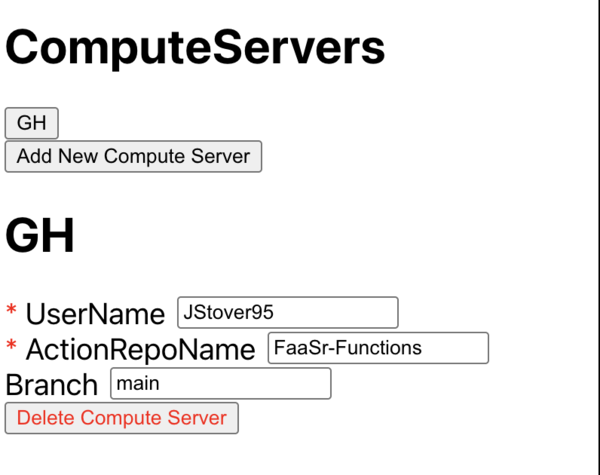
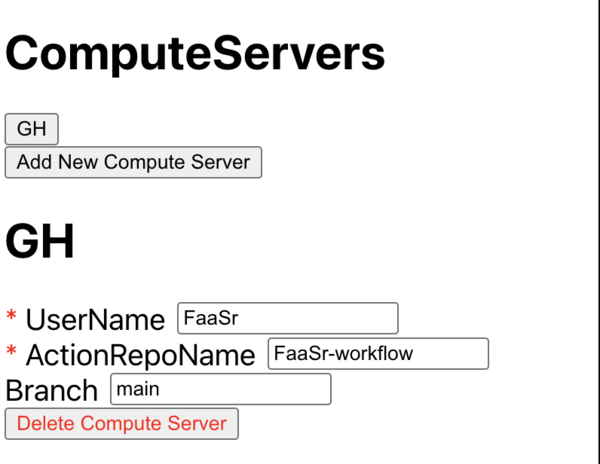
Update compute server config

diff --git a/weather_visualization/README.md b/weather_visualization/README.md
@@ -719,9 +719,11 @@ The final workflow file that we will create can be found in [weather_visualizati
 
 ### 1. Set Up our Compute Server
 
-After opening the Workflow Builder, we will first add a compute server. This can be one of GitHub Actions, AWS Lambda, or more (see the documentation for more details ...). For this tutorial, we will use GitHub Actions.
+After opening the Workflow Builder, we will first add a compute server. Click **Edit Compute Servers**, then following the tutorial (...), enter your GitHub username for **UserName**, `Faasr-workflow` for **ActionRepoName**, and `main` for **Branch**.
 
-Click **Edit Compute Servers** and enter the information for the GitHub repository that you want to run the actions on. For example:
+> ℹ This workflow uses GitHub Actions, but it possible to bring your own compute server, like AWS Lambda. See the documentation for more details (...).
+
+Your configuration should appear as below:
 
 ![Compute server screenshot](../assets/weather-visualization-workflow-compute-server-600px.png)
 
